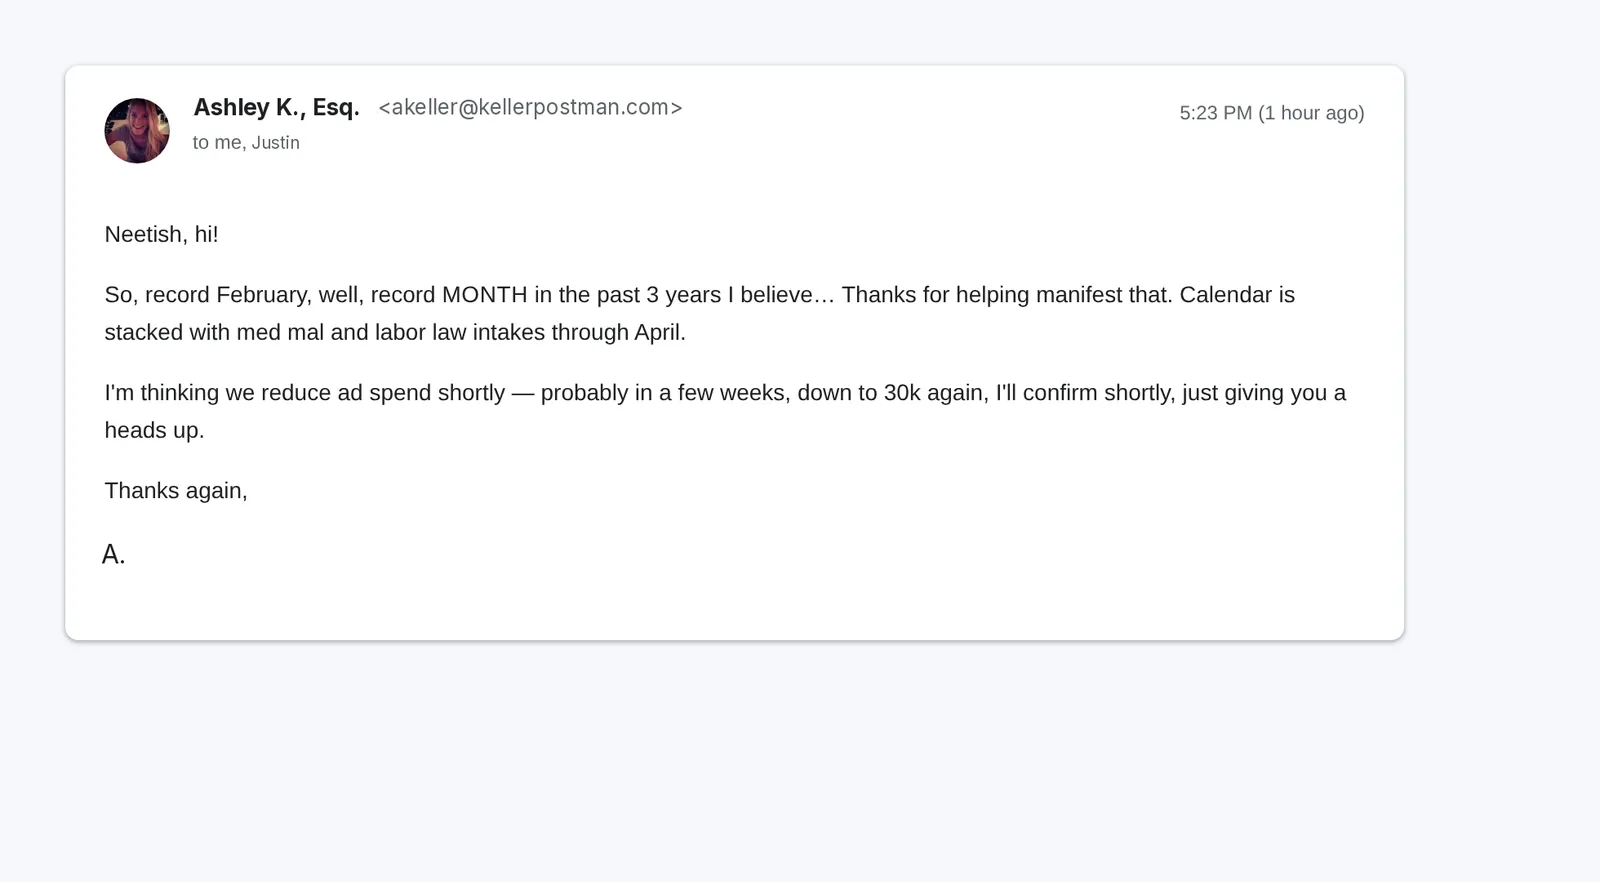
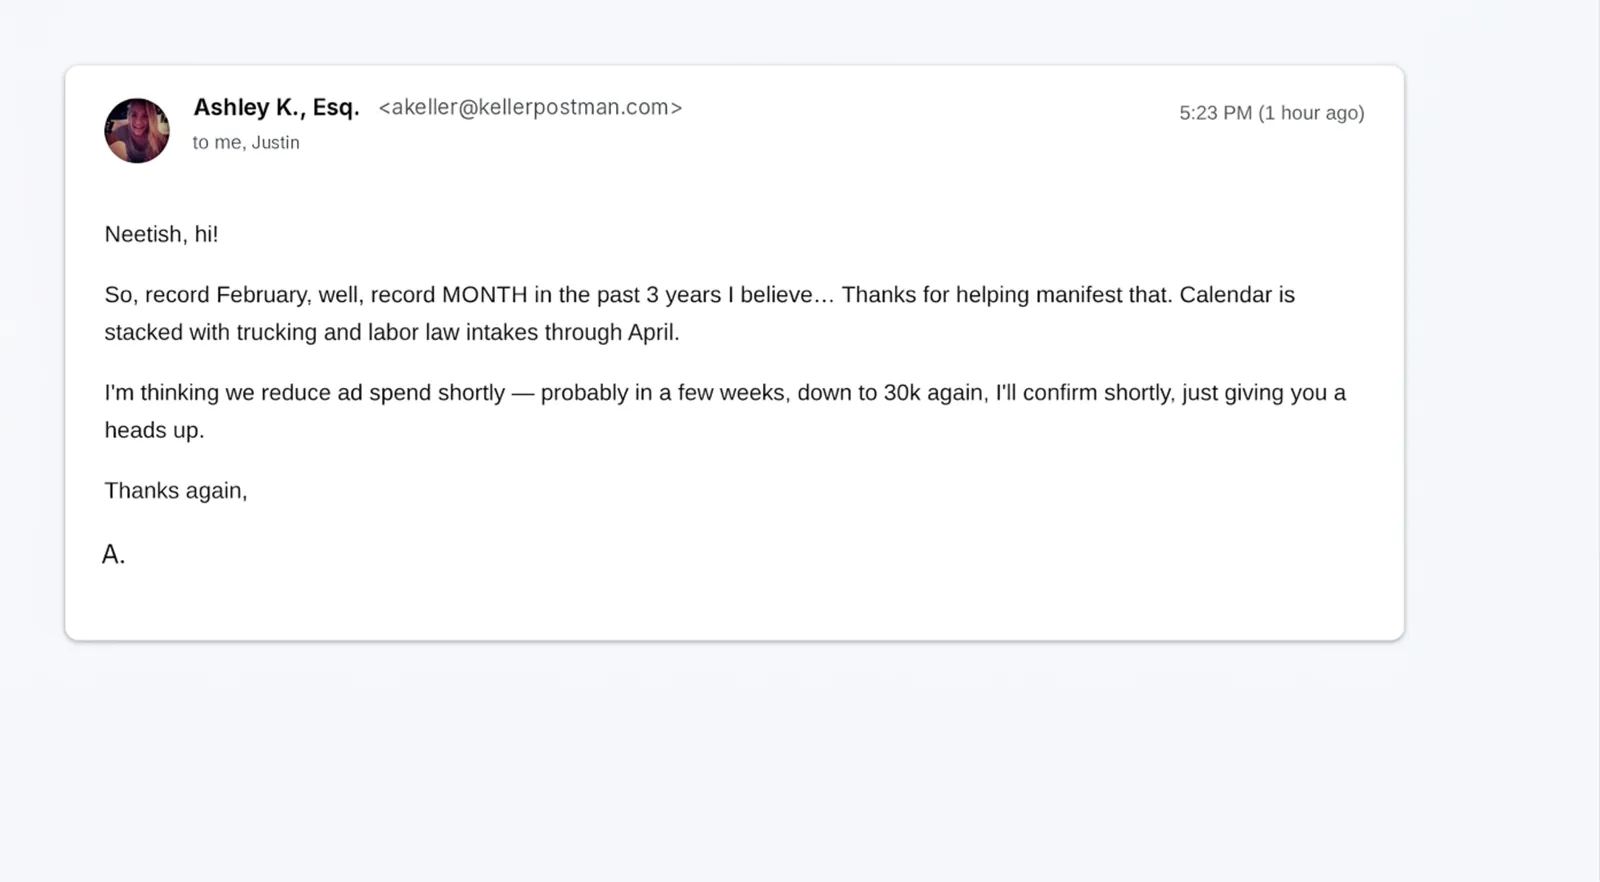
Update Ashley testimonial screenshot (med mal -> trucking); ?v=45
The export re-rendered testimonial #2 (Ashley K.): "calendar stacked with
med mal and labor law" changed to "trucking and labor law". Rebuilt from
the fresh export (458KB->81KB + webp) and pinned to ?v=45. Screenshots
#1 (Doug), #4 (John), #6 (Marc) were re-exported heavy but unchanged in
content, so left at their optimized versions.

diff --git a/index.html b/index.html
@@ -1621,7 +1621,7 @@
 </head>
 <body>
 
-<div class="top-strip">Only For Experienced Plaintiff Lawyers Signing 15+ Retainers Per Month</div>
+<div class="top-strip">Only For Experienced PI Attorneys Signing 15+ Retainers Per Month</div>
 
 <template id="__bundler_thumbnail" data-bg-color="#0B1B2B">
   <svg viewBox="0 0 1200 800" xmlns="http://www.w3.org/2000/svg">
@@ -1859,8 +1859,6 @@
     </div>
   </section>
 
-  <!-- STOWED: Client Success Stories (hidden for now; unwrap the template to restore) -->
-  <template id="stowed-success-stories">
   <!-- Client Success Stories -->
   <section class="success-section" id="success-stories" aria-label="Client success stories" data-screen-label="Success Stories">
     <div class="success-inner">
@@ -1912,7 +1910,7 @@
         </figure>
 
         <figure class="success-card email">
-          <img src="assets/re-testimonial-2-record-month.png?v=41" alt="Email from Ashley K., Esq. (Keller Postman): record February — record month in the past 3 years, calendar stacked with trucking and labor law intakes through April" loading="lazy">
+          <img src="assets/re-testimonial-2-record-month.png?v=45" alt="Email from Ashley K., Esq. (Keller Postman): record February — record month in the past 3 years, calendar stacked with trucking and labor law intakes through April" loading="lazy">
           <figcaption>
             <span class="success-tag">Record month</span>
             <span class="success-cap">"Record MONTH in the past 3 years" &middot; trucking &amp; labor law calendar stacked through April</span>
@@ -1929,8 +1927,6 @@
 
     </div>
   </section>
-  </template>
-
 
   <!-- Agency comparison (movable) -->
   <section class="vs-band" id="trust-section" data-screen-label="Mechanism">

diff --git a/case-studies/index.html b/case-studies/index.html
@@ -323,8 +323,6 @@ p{text-wrap:pretty}
   <div class="tc-dots" id="tcDots" aria-hidden="true"></div>
 </section>
 
-<!-- STOWED: Client Success Stories (hidden for now; unwrap the template to restore) -->
-  <template id="stowed-success-stories">
 <section class="success-section" id="success-stories" aria-label="Client success stories">
   <div class="success-inner">
     <div class="eyebrow">Straight From The Inbox</div>
@@ -373,7 +371,7 @@ p{text-wrap:pretty}
           </figcaption>
         </figure>
         <figure class="success-card">
-          <img src="../assets/re-testimonial-2-record-month.png?v=41" alt="Email from Ashley K., Esq. (Keller Postman): record February — record month in the past 3 years, calendar stacked with trucking and labor law intakes through April">
+          <img src="../assets/re-testimonial-2-record-month.png?v=45" alt="Email from Ashley K., Esq. (Keller Postman): record February — record month in the past 3 years, calendar stacked with trucking and labor law intakes through April">
           <figcaption>
             <span class="success-tag">Record month</span>
             <span class="success-cap">&ldquo;Record MONTH in the past 3 years&rdquo; &middot; trucking &amp; labor law calendar stacked through April</span>
@@ -383,9 +381,6 @@ p{text-wrap:pretty}
     </div>
   </div>
 </section>
-  </template>
-
-
 
 <section class="partners" aria-label="Our partners">
   <h2 class="partners-head">Our Partners</h2>

diff --git a/retainer-engine-demo-booked.html b/retainer-engine-demo-booked.html
@@ -1898,8 +1898,6 @@
 
   </section>
 
-  <!-- STOWED: Client Success Stories (hidden for now; unwrap the template to restore) -->
-  <template id="stowed-success-stories">
   <!-- Client Success Stories -->
   <section class="success-section" id="success-stories" aria-label="Client success stories" data-screen-label="Success Stories">
     <div class="success-inner">
@@ -1951,7 +1949,7 @@
         </figure>
 
         <figure class="success-card email">
-          <img src="assets/re-testimonial-2-record-month.png?v=41" alt="Email from Ashley K., Esq. (Keller Postman): record February — record month in the past 3 years, calendar stacked with trucking and labor law intakes through April" loading="lazy">
+          <img src="assets/re-testimonial-2-record-month.png?v=45" alt="Email from Ashley K., Esq. (Keller Postman): record February — record month in the past 3 years, calendar stacked with trucking and labor law intakes through April" loading="lazy">
           <figcaption>
             <span class="success-tag">Record month</span>
             <span class="success-cap">"Record MONTH in the past 3 years" &middot; trucking &amp; labor law calendar stacked through April</span>
@@ -1961,7 +1959,6 @@
       </div>
     </div>
   </section>
-  </template>
 
   <!-- FAQ -->
   <section class="faq-section" id="faq" data-screen-label="FAQ">
